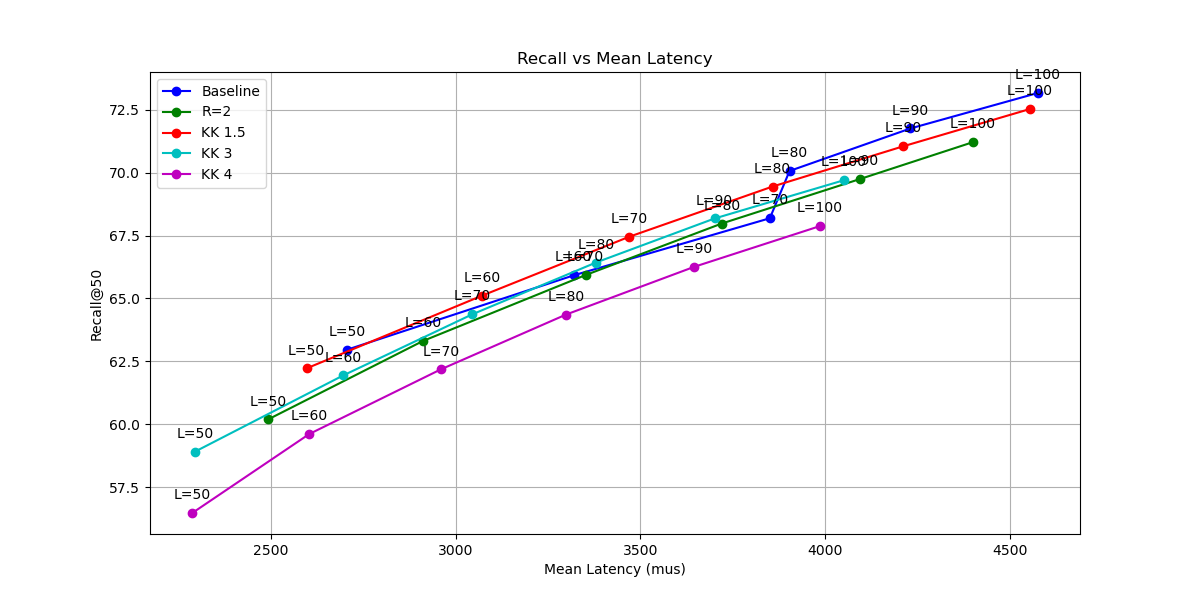
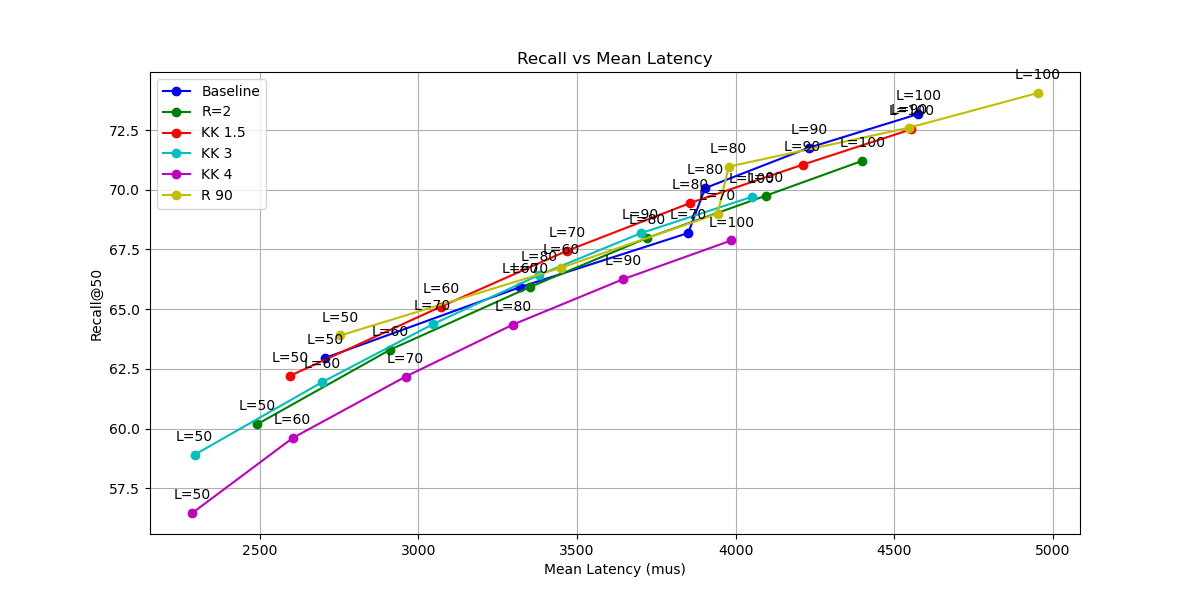
add latest plots

diff --git a/prec40M/plot_1_thread.py b/prec40M/plot_1_thread.py
@@ -5,49 +5,44 @@ data = {
     "Baseline": {
         "Ls": [50, 60, 70, 80, 90, 100],
         "Avg dist cmps": [3687.22, 4195.96, 4685.40, 5171.15, 5654.48, 6129.37],
-        "Mean Latency (mus)": [2705.62, 3319.41, 3850.11, 3903.45, 4230.41, 4574.90],
+        "Mean Latency (mus)": [1332.03, 1503.96, 1678.89, 1852.77, 2027.21, 2204.12],
         "Recall@50": [62.96, 65.92, 68.19, 70.07, 71.76, 73.17]
     },
     "R=2": {
         "Ls": [50, 60, 70, 80, 90, 100],
         "Avg dist cmps": [3434.01, 3901.36, 4359.70, 4799.74, 5237.92, 5669.62],
-        "Mean Latency (mus)": [2492.46, 2911.56, 3351.47, 3719.99, 4094.19, 4398.48],
+        "Mean Latency (mus)": [1239.42, 1407.26, 1573.24, 1734.85, 1898.69, 2053.13],
         "Recall@50": [60.19, 63.31, 65.93, 67.98, 69.75, 71.21]
     },
     "KK 1.5": {
         "Ls": [50, 60, 70, 80, 90, 100],
         "Avg dist cmps": [3481.68, 3960.66, 4428.85, 4895.59, 5347.67, 5802.73],
-        "Mean Latency (mus)": [2596.59, 3071.11, 3468.83, 3857.31, 4210.76, 4553.08],
+        "Mean Latency (mus)": [1265.58, 1442.37, 1616.34, 1789.87, 1956.81, 2124.76],
         "Recall@50": [62.22, 65.11, 67.45, 69.45, 71.05, 72.53]
     },
     "KK 3": {
         "Ls": [50, 60, 70, 80, 90, 100],
         "Avg dist cmps": [3073.33, 3497.61, 3905.47, 4309.33, 4708.85, 5105.36],
-        "Mean Latency (mus)": [2294.82, 2695.71, 3045.03, 3379.80, 3700.46, 4050.05],
+        "Mean Latency (mus)": [1120.41, 1280.12, 1435.12, 1585.94, 1735.12, 1888.07],
         "Recall@50": [58.91, 61.94, 64.37, 66.43, 68.18, 69.70]
     },
     "KK 4": {
         "Ls": [50, 60, 70, 80, 90, 100],
         "Avg dist cmps": [2990.19, 3397.21, 3798.61, 4190.69, 4579.45, 4963.58],
-        "Mean Latency (mus)": [2287.41, 2603.87, 2959.77, 3298.64, 3645.76, 3986.09],
+        "Mean Latency (mus)": [1094.82, 1244.82, 1402.78, 1552.51, 1698.52, 1842.31],
         "Recall@50": [56.47, 59.61, 62.18, 64.36, 66.26, 67.88]
     }
     ,
     "R 90": {
         "Ls": [50, 60, 70, 80, 90, 100],
         "Avg dist cmps": [3760.59, 4282.52, 4795.27, 5303.92, 5805.21, 6306.36],
-        "Mean Latency (mus)": [2753.30, 3450.67, 3942.89, 3977.72, 4546.83, 4951.50],
+        "Mean Latency (mus)": [1370.57, 1565.07, 1755.34, 1944.71, 2135.67, 2321.62],
         "Recall@50": [63.90, 66.74, 69.00, 70.97, 72.60, 74.05]
     }
 }
 
 colors = ['b', 'g', 'r', 'c', 'm', 'y']
 labels = list(data.keys())
-
-# Annotate L values in the plots
-for label in labels:
-    for i, L in enumerate(data[label]["Ls"]):
-        plt.annotate(f'L={L}', (data[label]["Avg dist cmps"][i], data[label]["Recall@50"][i]), textcoords="offset points", xytext=(0,10), ha='center')
 
 # Save Recall vs Avg dist cmps plot
 plt.figure(figsize=(12, 6))
@@ -60,7 +55,7 @@ plt.ylabel('Recall@50')
 plt.title('Recall vs Avg dist cmps')
 plt.legend()
 plt.grid(True)
-plt.savefig('recall_vs_avg_dist_cmps.png')
+plt.savefig('recall_vs_avg_dist_cmps_1_thread.png')
 
 # Save Recall vs Mean Latency plot
 plt.figure(figsize=(12, 6))
@@ -73,4 +68,4 @@ plt.ylabel('Recall@50')
 plt.title('Recall vs Mean Latency')
 plt.legend()
 plt.grid(True)
-plt.savefig('recall_vs_mean_latency.png')
+plt.savefig('recall_vs_mean_latency_1_thread.png')
